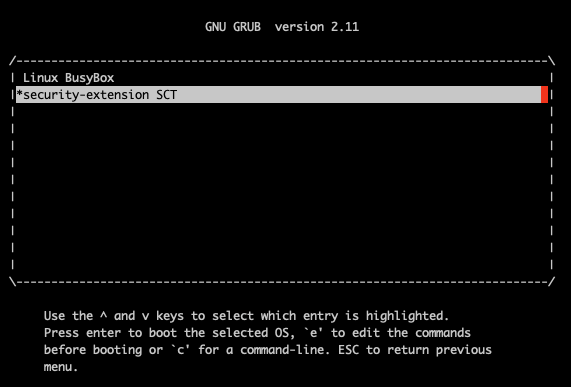
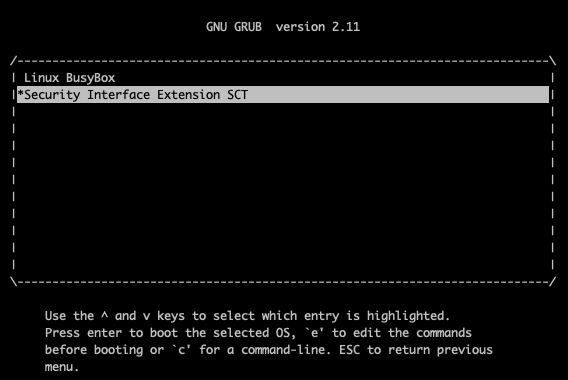
security-interface-extension: update docs with new name
convert name from security-extension to security-interface-extension

diff --git a/security-interface-extension/README.md b/security-interface-extension/README.md
@@ -1,10 +1,10 @@
-# SystemReady Security Extension ACS
+# SystemReady Security Interface Extension ACS
 
-## Introduction to the SystemReady Security Extension
+## Introduction to the SystemReady Security Interface Extension
 
-The SystemReady Security Extension provides a way to certify that Secure Boot and secure firmware update are implemented as prescribed by the Arm [Base Boot Security Specification](https://developer.arm.com/documentation/den0107/latest) (BBSR).  The Security Extension is an extension to the bands of the SystemReady program and a pre-requisite for a Security Extension certification in one of the IR, ES, or LS bands.
+The SystemReady Security Interface Extension provides a way to certify that Secure Boot and secure firmware update are implemented as prescribed by the Arm [Base Boot Security Specification](https://developer.arm.com/documentation/den0107/latest) (BBSR).  The Security Interface Extension is an extension to the bands of the SystemReady program and a pre-requisite for a Security Interface Extension certification in one of the IR, ES, or LS bands.
 
-The Security Extension ACS tests the following security related interfaces:
+The Security Interface Extension ACS tests the following security related interfaces:
 * Authenticated variables
 * Secure Boot variables
 * Secure firmware update using update capsules
@@ -14,26 +14,26 @@ This section describes the steps to build the ACS or obtain the pre-built live i
 
 ## Release details
  - Code Quality: v1.0
- - **The latest pre-built release of the Security Extension ACS is available for download here: [v21.09_SE_REL1.0](./prebuilt_images/v21.09_SE_REL1.0)**
- - The Security Extension tests are written for version 1.1 of the BBSR specification.
+ - **The latest pre-built release of the Security Interface Extension ACS is available for download here: [v21.10_SIE_REL1.0](./prebuilt_images/v21.10_SIE_REL1.0)**
+ - The Security Interface Extension tests are written for version 1.1 of the BBSR specification.
  - The compliance suite is not a substitute for design verification.
  - To review the ACS logs, Arm licensees can contact Arm directly through their partner managers.
  - New Features
      - New features in this release include tests for the UEFI Image Information Execution table and TPM-based measured boot.
  - Limitations
-     - This release is limited to the security extension ACS tests only.  It is not supported to use this release for SystemReady ES and IR band testing.  See the SystemReady ACS page for links to the latest SystemReady IR and ES tests.
+     - This release is limited to the Security Interface Extension ACS tests only.  It is not supported to use this release for SystemReady ES and IR band testing.  See the SystemReady ACS page for links to the latest SystemReady IR and ES tests.
 
 
-## Steps to build SystemReady Security Extension ACS live image
+## Steps to build SystemReady Security Inteface Extension ACS live image
 
 ## GitHub branch
-- To pick up the release version of the code, checkout the branch "security-extension-acs".  The release tag is: v21.08_SE_REL1.0_BETA-1
+- To pick up the release version of the code, checkout the branch "security-interface-extension-acs".  The release tag is: v21.10_SIE_REL1.0
 
 ## ACS build steps
 
 ### Pre-built images
 - Pre-built images for each release are available in the prebuilt_images folder of the release branch. You can either choose to use these images or build your own image by following the steps below.
-- To access the prebuilt_images, click this link : [prebuilt_images](./prebuilt_images/v21.09_SE_REL1.0)
+- To access the prebuilt_images, click this link : [prebuilt_images](./prebuilt_images/v21.10_SIE_REL1.0)
 - If you choose to use the pre-built image, skip the build steps and jump to the test suite execution section below.
 
 ### Prerequisites
@@ -43,21 +43,21 @@ Before starting the ACS build, ensure that the following requirements are met:
  - User should have **sudo** privilege to install tools required for build
  - git must be installed in order to clone the ACS repo
 
-### Steps to build SystemReady Security Extension ACS live image
-1. Clone the security-extension-acs branch of  [Arm-SystemReady](https://github.com/ARM-software/arm-systemready) repo. <br />
- `git clone -b security-extension-acs https://github.com/ARM-software/arm-systemready`
+### Steps to build SystemReady Security Interface Extension ACS live image
+1. Clone the security-interface-extension-acs branch of  [Arm-SystemReady](https://github.com/ARM-software/arm-systemready) repo. <br />
+ `git clone -b security-interface-extension-acs https://github.com/ARM-software/arm-systemready`
 
-2. Navigate to the security-extension/scripts directory <br />
- `cd arm-systemready/security-extension/scripts`
+2. Navigate to the security-interface-extension/scripts directory <br />
+ `cd arm-systemready/security-interface-extension/scripts`
 
 3. Run get_source.sh to download all related sources and tools for the build. Provide the sudo permission when prompted <br />
  `./build-scripts/get_source.sh` <br />
 
-4. To start the build of the Security Extension ACS live image, execute the below step <br />
+4. To start the build of the Security Interface Extension ACS live image, execute the below step <br />
  `./build-scripts/build-security-extension-live-image.sh`
 
 5. If all of above steps are successful, the bootable image will be available at: <br />
- `/[path-to-arm-systemready]/security-extension/scripts/output/se_acs_live_image.img`
+ `/[path-to-arm-systemready]/security-interface-extension/scripts/output/sie_acs_live_image.img`
 
 ## Build output
 This image comprises of two FAT file system partitions recognized by UEFI: <br />
@@ -66,8 +66,8 @@ This image comprises of two FAT file system partitions recognized by UEFI: <br /
 - 'boot' <br />
   Contains bootable applications and test suites. (Approximate size: 400 MB)
 
-## Running the Security Extension ACS
-The test suite consists of both automated and manual tests.  See the [Security Extension ACS Users Guide](./security_extension_users_guide.md) for addition information.
+## Running the Security Interface Extension ACS
+The test suite consists of both automated and manual tests.  See the [Security Interface Extension ACS Users Guide](./security_interface_extension_users_guide.md) for addition information.
 
 ## Baselines for Open Source Software in this release:
 
@@ -77,7 +77,7 @@ The test suite consists of both automated and manual tests.  See the [Security E
 
 
 ## Security Implications
-Arm SystemReady Security Extension ACS test suite may run at a higher privilege level. An attacker may utilize these tests as a means to elevate privilege which can potentially reveal the platform security assets. To prevent the leakage of secure information, it is strongly recommended that the ACS test suite is run only on development platforms. If it is run on production systems, the system should be scrubbed after running the test suite.
+Arm SystemReady Security Interface Extension ACS test suite may run at a higher privilege level. An attacker may utilize these tests as a means to elevate privilege which can potentially reveal the platform security assets. To prevent the leakage of secure information, it is strongly recommended that the ACS test suite is run only on development platforms. If it is run on production systems, the system should be scrubbed after running the test suite.
 
 ## License
 System Ready ACS is distributed under Apache v2.0 License.

diff --git a/security-interface-extension/security_interface_extension_users_guide.md b/security-interface-extension/security_interface_extension_users_guide.md
@@ -1,8 +1,8 @@
-# SystemReady Security Extension User's Guide
+# SystemReady Security Interface Extension User's Guide
 
-## Introduction to the SystemReady Security Extension
+## Introduction to the SystemReady Security Interface Extension
 
-The Base Boot Security Requirements (BBSR) ACS is a compliance suite that tests for compliance with the requirements specified in the Base Boot Security Requirements 1.1 specification (https://developer.arm.com/documentation/den0107/latest/).  Passing the tests in this compliance suite is required for being granted the SystemReady Security Extension certification.
+The Security Interface Extension ACS is a compliance suite that tests for compliance with the requirements specified in the Base Boot Security Requirements 1.1 specification (https://developer.arm.com/documentation/den0107/latest/).  Passing the tests in this compliance suite is required for being granted the SystemReady Security Interface Extension certification.
 
 The BBSR specifies requirements for the following security interfaces:
  - UEFI authenticated variables
@@ -14,13 +14,13 @@ The BBSR ACS uses the same framework as the SystemReady ACS (https://github.com/
 
 The BBSR ACS consists of automated and manual tests.  Automated testcases include firmware based tests using the SCT (edk2-test) framework and OS-based tests using FWTS.
 
-## Running the Security Extension ACS
+## Running the Security Interface Extension ACS
 
 ### 1. Pre-requisites
 
 The following are pre-requisites needed prior to running the ACS:
 
-1. The security extension ACS image must be available on the system on a bootable storage device.
+1. The Security Interface Extension ACS image must be available on the system on a bootable storage device.
 
 2. For Secure Boot the system firmware must be in "Setup Mode" where the Secure Boot keys are cleared prior to starting the ACS.  The mechanism to enroll Secure Boot keys is platform specific and the procedure to enroll the keys must be available.
 
@@ -31,7 +31,7 @@ The following are pre-requisites needed prior to running the ACS:
 The ACS provides a set of keys for the UEFI Secure Boot keys PK, KEK, db, and dbx.  Before starting the test suite these test keys must be enrolled using and applicable platform-specific procedure for the firmware of the platform under test.
 
 The test keys are available on the "boot" partition of the ACS image at the following path:<br />
-`EFI\BOOT\bbr\security-extension-acs-keys.`
+`EFI\BOOT\bbr\security-interface-extension-keys`
 
 The test keys are available in DER format (suitable for enrolling in EDK2) and as signed UEFI variable signature list blobs (suitable for u-boot).
 
@@ -70,7 +70,7 @@ For example, to enroll the Secure Boot keys on QEMU with EDK2 based firmware per
      - Select "Enroll PK" -> "Enroll PK Using File"
      - Select the ACS disk which has the "BOOT" label
      - The secure boot keys are located at the following path on the disk:
-         - EFI \ BOOT \ bbr \ security-extension-acs-keys
+         - EFI \ BOOT \ bbr \ security-interface-extension-keys
      - Select the following file for PK: `TestPK1.der`
      - Repeat the above steps to enroll the keys (TestKEK1.der, TestDB1.der, TestDBX1.der)  for KEK, db, dbx selecting the following options:
          - KEK Options
@@ -90,9 +90,9 @@ https://github.com/u-boot/u-boot/blob/master/doc/develop/uefi/uefi.rst
 
 ### <a name="run-sct"></a> 3. Run SCT
 
-The Security Extension SCT is a subset of the SCT focused on security interfaces-- authenticated variables, Secure Boot variables, Secure Boot image loading, and TCG2 protocol test for systems with TPMs.
+The Security Interface Extension SCT is a subset of the SCT focused on security interfaces-- authenticated variables, Secure Boot variables, Secure Boot image loading, and TCG2 protocol test for systems with TPMs.
 
-After resetting the system with the ACS Secure Boot keys enrolled, grub will automatically start the Security Extension SCT
+After resetting the system with the ACS Secure Boot keys enrolled, grub will automatically start the Security Interface Extension SCT
 
  - ![GRUB](./images/grub.png)
 
@@ -169,7 +169,7 @@ The event log and PCR log are evaluated as part of the measured boot test phase,
 
 ### 5. Secure firmware update test
 
-The BBSR requires support for update capsules compliant with the UEFI specification for systems that perform in-band firmware updates.  The Security Extension ACS firmware update test is a manual test run from the firmware that requires a valid update capsule for the system's firmware.
+The BBSR requires support for update capsules compliant with the UEFI specification for systems that perform in-band firmware updates.  The Security Interface Extension ACS firmware update test is a manual test run from the firmware that requires a valid update capsule for the system's firmware.
 
 The UEFI specification defines two methods of performing updates with capsules:
 1) UpdateCapsule() runtime function (see section 8.5.3)

diff --git a/README.md b/README.md
@@ -23,10 +23,10 @@ Navigate to the ES or IR band for further details on specific scripts and prebui
 * [ES](./ES)
 * [IR](./IR)
 
-## System Ready Security Extension:
-The SystemReady security extension provides a way to certify that secure boot and secure firmware update are implemented as prescribed by the Arm [Base Boot Security Specification](https://developer.arm.com/documentation/den0107/latest) (BBSR). The security extension can be followed with the SystemReady SR, ES, and IR bands.
-Please navigate to the security extension link below for further details on specific scripts and prebuilt images:
-* [security-extension](./security-extension)
+## System Ready Security Interface Extension:
+The SystemReady Security Interface Extension provides a way to certify that secure boot and secure firmware update are implemented as prescribed by the Arm [Base Boot Security Specification](https://developer.arm.com/documentation/den0107/latest) (BBSR). The Security Interface Extension can be followed with the SystemReady SR, ES, and IR bands.
+Please navigate to the Security Interface Extension link below for further details on specific scripts and prebuilt images:
+* [security-interface-extension](./security-interface-extension)
 
 ## License
 
